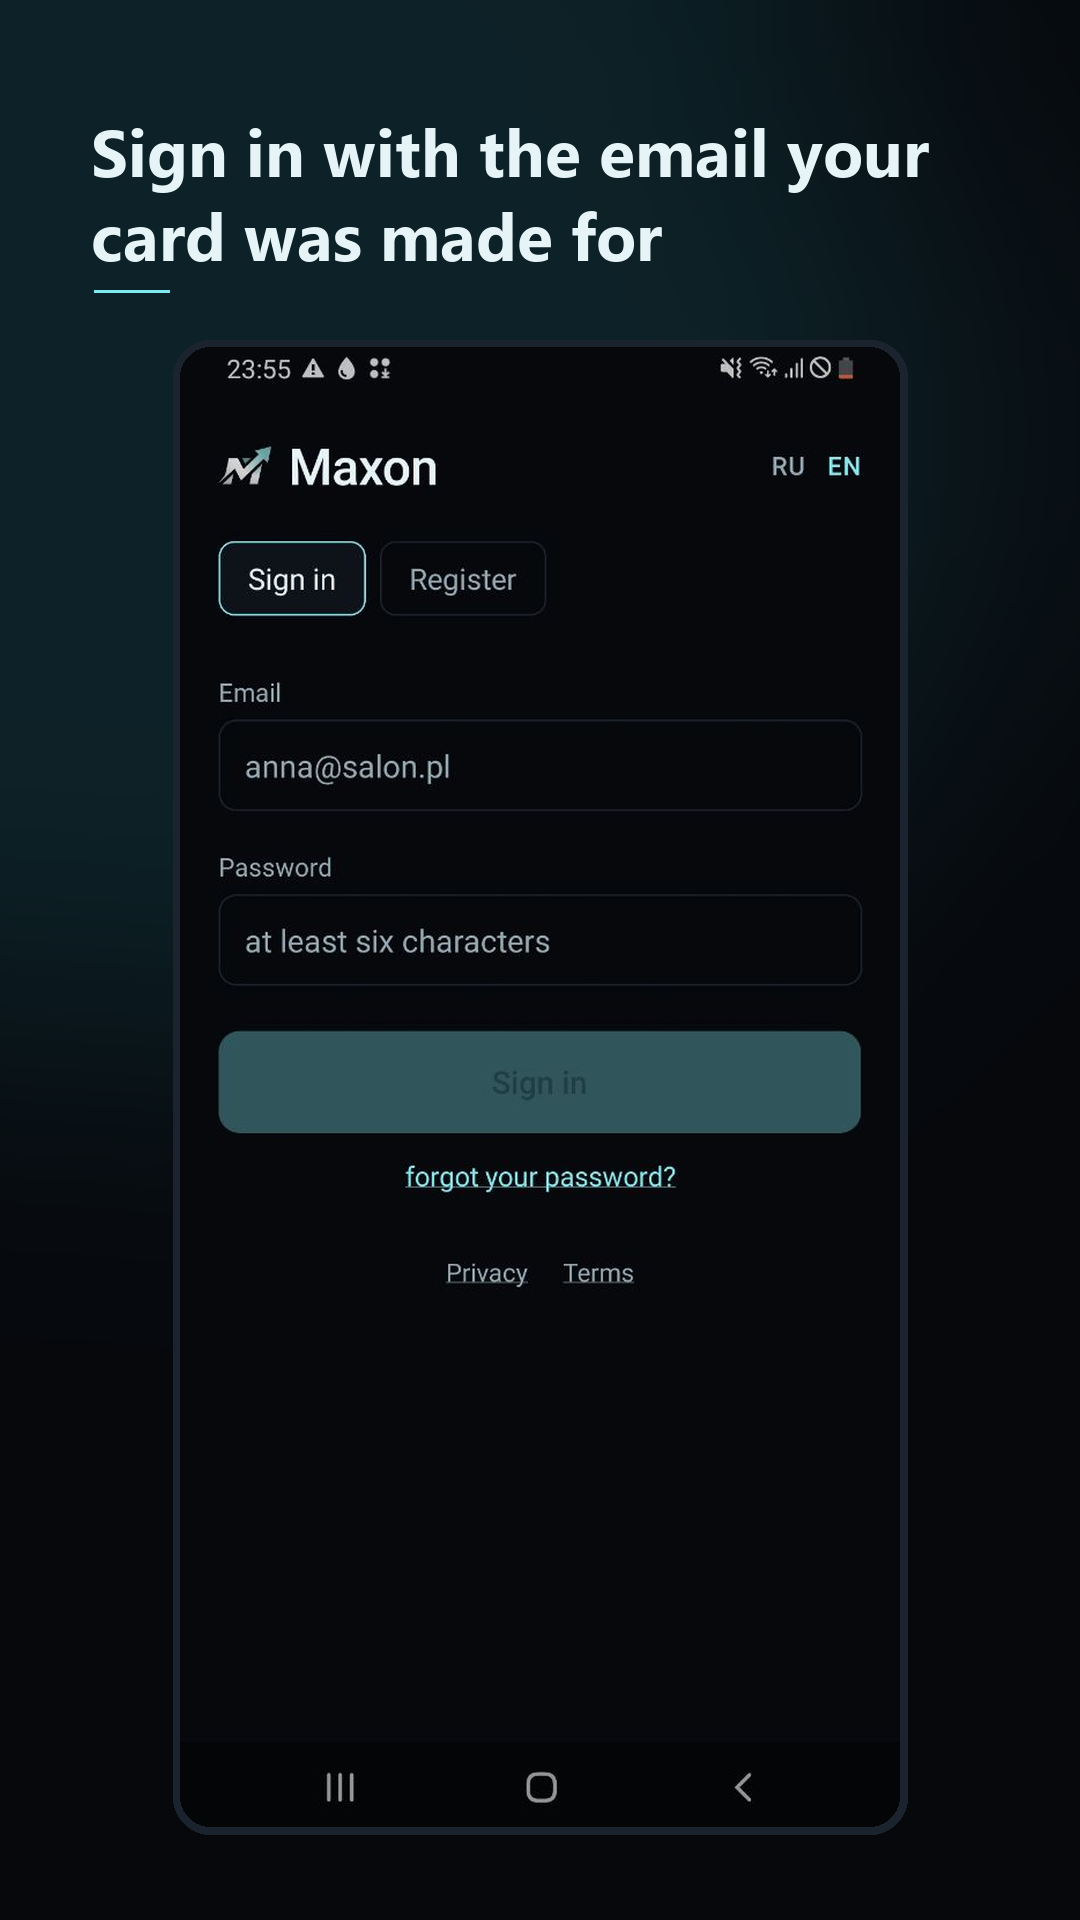
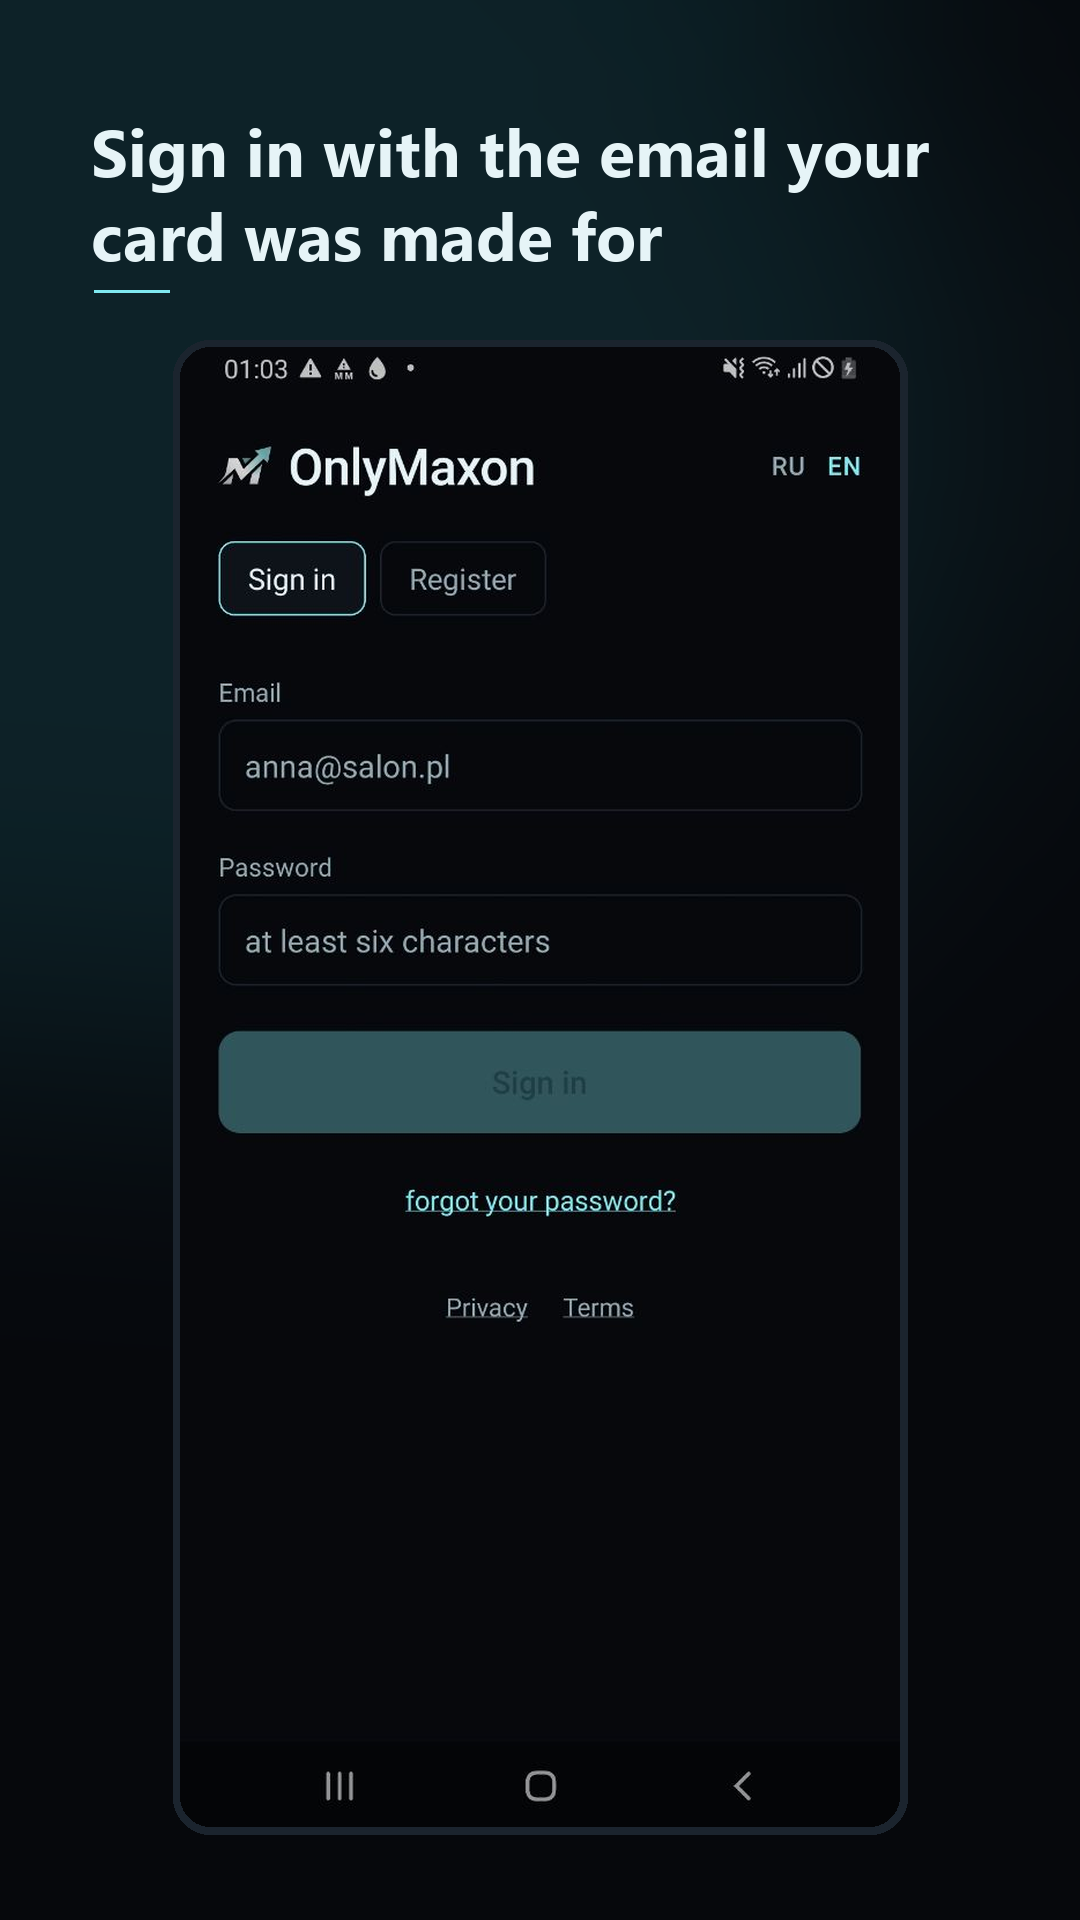
Screenshots, reshot with the OnlyMaxon header, and declared for the API
Regenerated from the new captures in store/ScreenShots. Two sizes now: 1320x2868
and 1206x2622 — App Store Connect asked for the medium Dynamic Island display by
name, which is the 6.3 inch one, and the large alone does not satisfy it.

They are declared in store.config.js under info.en-US.screenshots, which
eas metadata does support; the schema was checked rather than assumed. pl and ru
carry no screenshots of their own and fall back to en-US, which is what Apple
does with an empty locale.

Not pushed yet. The App Store Connect API key stored on EAS has been answering 401
to every request for the last while — the same error that interrupted a build
earlier tonight. The listing text already in Apple is unaffected.

diff --git a/store.config.js b/store.config.js
@@ -46,6 +46,16 @@ const config = {
     "info": {
       "en-US": {
         "title": "OnlyMaxon",
+        "screenshots": {
+          "APP_IPHONE_69": [
+            "./store/appstore/screenshots/1-6.9.png",
+            "./store/appstore/screenshots/2-6.9.png"
+          ],
+          "APP_IPHONE_63": [
+            "./store/appstore/screenshots/1-6.3.png",
+            "./store/appstore/screenshots/2-6.3.png"
+          ]
+        },
         "subtitle": "Your NFC card, always current",
         "privacyPolicyUrl": "https://onlymaxon.com/apps/cards/privacy/",
         "supportUrl": "https://onlymaxon.com/",
